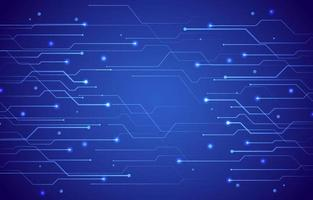
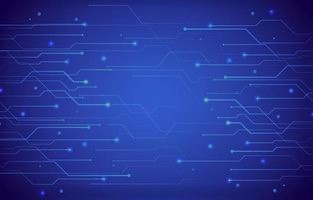
General background retouched.

diff --git a/src/index.css b/src/index.css
@@ -8,6 +8,7 @@
   box-sizing: border-box;
   list-style: none;
   text-decoration: none;
+  
 }
 
 :root {
@@ -27,6 +28,7 @@
 
 html {
   scroll-behavior: smooth;
+  
 }
 
 ::-webkit-scrollbar {
@@ -39,12 +41,14 @@ body {
   color: var(--color-white);
   line-height: 1.7;
   background-image: url(../src/Assets/BG.jpg);
+  background-size: contain;
+  
 }
 
 .container {
   width: var(--container-width-lg);
   margin: 0 auto;
-  
+  /* filter: blur(8px); */
 }
 
 h1,

diff --git a/src/Components/Header/Header.css b/src/Components/Header/Header.css
@@ -57,7 +57,7 @@ header {
     bottom: 5rem;
     transform: rotate(90deg);
     font-weight: 300;
-    font-size: 0.5rem;
+    font-size: 0.8rem;
 }
 
 /*=============MEDIA QUERIES (MEDIUM DEVICES)==========*/

diff --git a/src/App.jsx b/src/App.jsx
@@ -12,7 +12,7 @@ import React from 'react'
 
 const App = () => {
   return (
-    <div>
+    <div className='bg'>
       <Header />
       <Nav />
       <About />

diff --git a/src/App.css b/src/App.css
@@ -1,0 +1,6 @@
+/* .bg{
+  background-image: url(../src/Assets/BG.jpg);
+  /* background-repeat: no-repeat; 
+}
+
+*/
